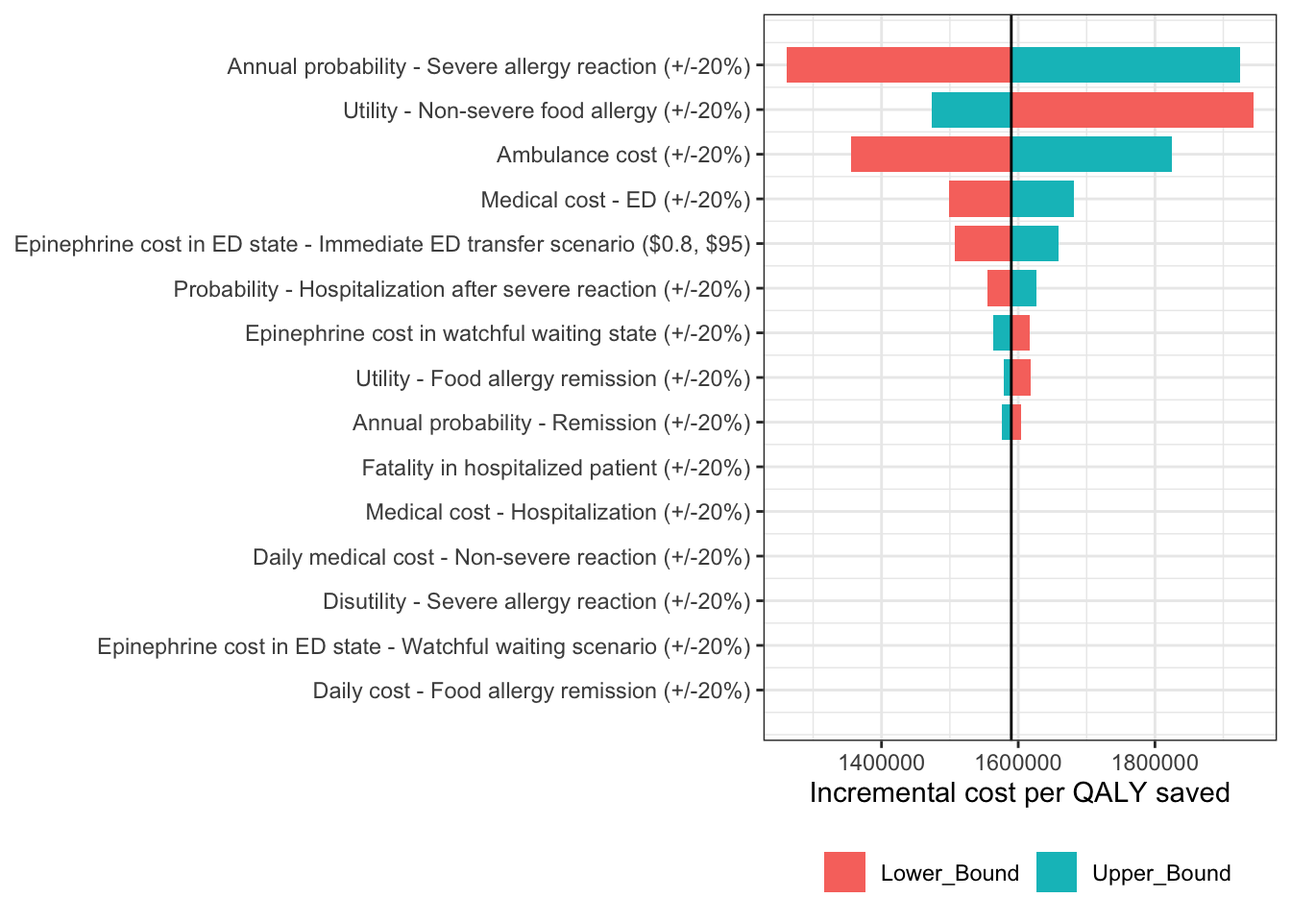
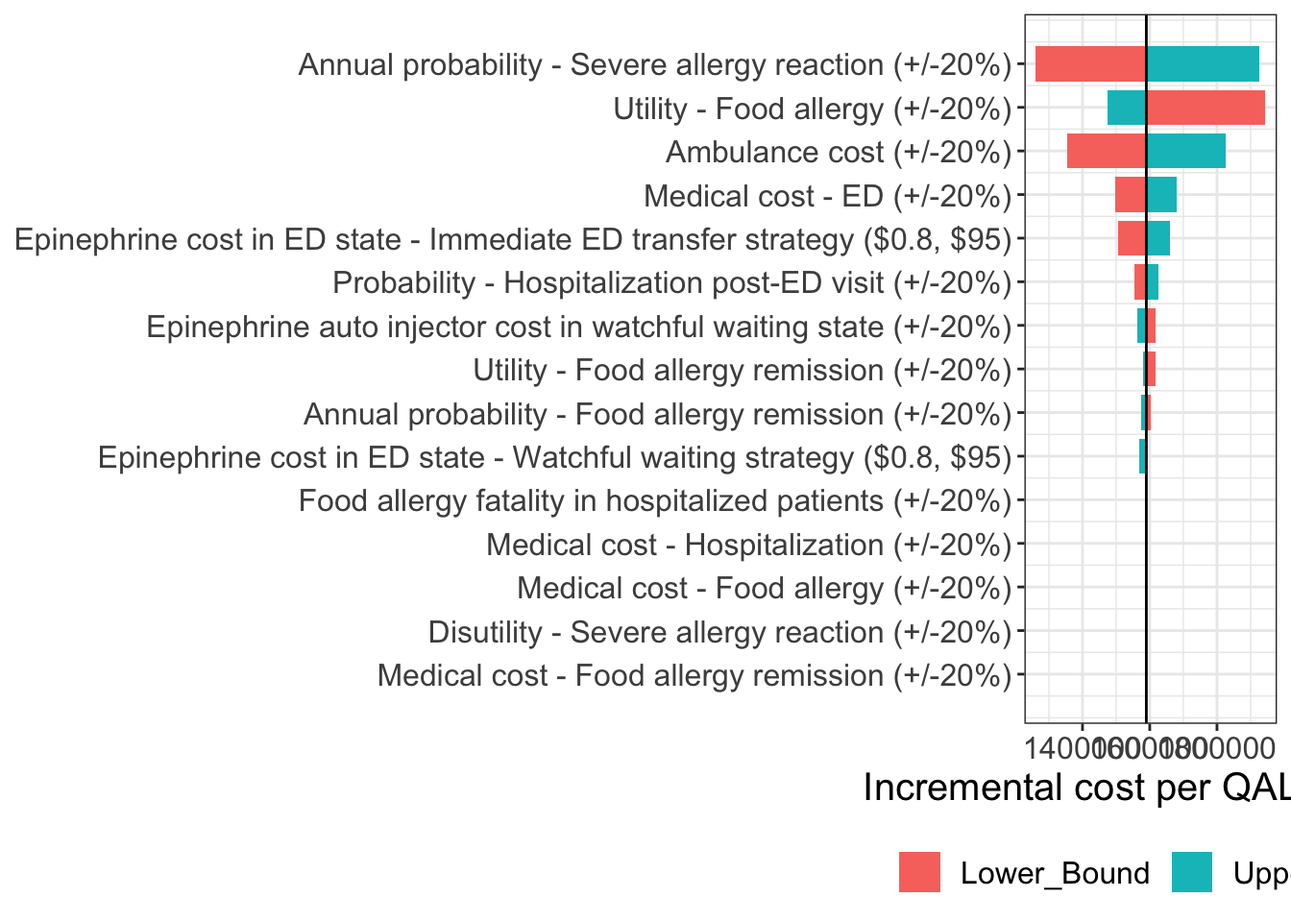
update formate

Changed region(s): [[0.0, 0.0, 1.0, 0.875], [0.625, 0.9062, 1.0, 0.9688]]

diff --git a/Allergy_EAI.html b/Allergy_EAI.html
@@ -1190,7 +1190,7 @@ ED_transfer   1011.657 0.0006003287 1685172 watch_wait</code></pre>
 <span id="cb32-6"><a href="#cb32-6" aria-hidden="true" tabindex="-1"></a>  p_sh_ED,                <span class="fl">0.001684833</span><span class="sc">*</span><span class="fl">0.8</span>,       <span class="fl">0.001684833</span><span class="sc">*</span><span class="fl">1.2</span>,</span>
 <span id="cb32-7"><a href="#cb32-7" aria-hidden="true" tabindex="-1"></a>  treatment_cost_ED,      <span class="fl">0.8</span>,                   <span class="dv">95</span>,</span>
 <span id="cb32-8"><a href="#cb32-8" aria-hidden="true" tabindex="-1"></a>  treatment_cost_ww,      <span class="dv">95</span><span class="sc">*</span><span class="fl">0.8</span>,                <span class="dv">95</span><span class="sc">*</span><span class="fl">1.2</span>,</span>
-<span id="cb32-9"><a href="#cb32-9" aria-hidden="true" tabindex="-1"></a>  treatment_cost_ww_ED,   <span class="fl">0.8</span><span class="sc">*</span><span class="fl">0.8</span>,               <span class="fl">0.8</span><span class="sc">*</span><span class="fl">1.2</span>,</span>
+<span id="cb32-9"><a href="#cb32-9" aria-hidden="true" tabindex="-1"></a>  treatment_cost_ww_ED,   <span class="fl">0.8</span>,                   <span class="dv">95</span>,</span>
 <span id="cb32-10"><a href="#cb32-10" aria-hidden="true" tabindex="-1"></a>  remission_cost_all,     <span class="dv">569</span><span class="sc">/</span><span class="dv">365</span><span class="sc">*</span><span class="fl">0.8</span>,           <span class="dv">569</span><span class="sc">/</span><span class="dv">365</span><span class="sc">*</span><span class="fl">1.2</span>,</span>
 <span id="cb32-11"><a href="#cb32-11" aria-hidden="true" tabindex="-1"></a>  medical_cost_ns,        <span class="dv">1388</span><span class="sc">/</span><span class="dv">365</span> <span class="sc">*</span><span class="fl">0.8</span>,         <span class="dv">1388</span><span class="sc">/</span><span class="dv">365</span><span class="sc">*</span><span class="fl">1.2</span>,</span>
 <span id="cb32-12"><a href="#cb32-12" aria-hidden="true" tabindex="-1"></a>  ambulance_cost_ED_ED,   <span class="dv">848</span><span class="sc">*</span><span class="fl">0.8</span>,               <span class="dv">848</span><span class="sc">*</span><span class="fl">1.2</span>,</span>
@@ -1246,12 +1246,12 @@ ED_transfer   1011.657 0.0006003287 1685172 watch_wait</code></pre>
 <span id="cb35-24"><a href="#cb35-24" aria-hidden="true" tabindex="-1"></a>  df<span class="sc">$</span>UL_Difference <span class="ot">&lt;-</span> <span class="fu">abs</span>(df<span class="sc">$</span>Upper_Bound <span class="sc">-</span> df<span class="sc">$</span>Lower_Bound)</span>
 <span id="cb35-25"><a href="#cb35-25" aria-hidden="true" tabindex="-1"></a>  base.value <span class="ot">&lt;-</span> refer_value</span>
 <span id="cb35-26"><a href="#cb35-26" aria-hidden="true" tabindex="-1"></a>  </span>
-<span id="cb35-27"><a href="#cb35-27" aria-hidden="true" tabindex="-1"></a>  dsa_names<span class="ot">&lt;-</span><span class="fu">c</span>(<span class="st">"Ambulance cost (+/-20%)"</span>, <span class="st">"Medical cost - ED (+/-20%)"</span>,<span class="st">"Medical cost - Hospitalization (+/-20%)"</span>,<span class="st">"Daily medical cost - Non-severe reaction (+/-20%)"</span>, </span>
-<span id="cb35-28"><a href="#cb35-28" aria-hidden="true" tabindex="-1"></a>    <span class="st">"Annual probability - Remission (+/-20%)"</span>,<span class="st">"Annual probability - Severe allergy reaction (+/-20%)"</span>, <span class="st">"Probability - Hospitalization after severe reaction (+/-20%)"</span>,</span>
-<span id="cb35-29"><a href="#cb35-29" aria-hidden="true" tabindex="-1"></a>    <span class="st">"Fatality in hospitalized patient (+/-20%)"</span>,<span class="st">"Daily cost - Food allergy remission (+/-20%)"</span>,</span>
-<span id="cb35-30"><a href="#cb35-30" aria-hidden="true" tabindex="-1"></a>    <span class="st">"Epinephrine cost in ED state - Immediate ED transfer scenario ($0.8, $95)"</span>, <span class="st">"Epinephrine cost in watchful waiting state (+/-20%)"</span>, </span>
-<span id="cb35-31"><a href="#cb35-31" aria-hidden="true" tabindex="-1"></a>    <span class="st">"Epinephrine cost in ED state - Watchful waiting scenario (+/-20%)"</span>, </span>
-<span id="cb35-32"><a href="#cb35-32" aria-hidden="true" tabindex="-1"></a>               <span class="st">"Utility - Non-severe food allergy (+/-20%)"</span>, <span class="st">"Utility - Food allergy remission (+/-20%)"</span>, <span class="st">"Disutility - Severe allergy reaction (+/-20%)"</span></span>
+<span id="cb35-27"><a href="#cb35-27" aria-hidden="true" tabindex="-1"></a>  dsa_names<span class="ot">&lt;-</span><span class="fu">c</span>(<span class="st">"Ambulance cost (+/-20%)"</span>, <span class="st">"Medical cost - ED (+/-20%)"</span>,<span class="st">"Medical cost - Hospitalization (+/-20%)"</span>,<span class="st">"Medical cost - Food allergy (+/-20%)"</span>, </span>
+<span id="cb35-28"><a href="#cb35-28" aria-hidden="true" tabindex="-1"></a>    <span class="st">"Annual probability - Food allergy remission (+/-20%)"</span>,<span class="st">"Annual probability - Severe allergy reaction (+/-20%)"</span>, <span class="st">"Probability - Hospitalization post-ED visit (+/-20%)"</span>,</span>
+<span id="cb35-29"><a href="#cb35-29" aria-hidden="true" tabindex="-1"></a>    <span class="st">"Food allergy fatality in hospitalized patients (+/-20%)"</span>,<span class="st">"Medical cost - Food allergy remission (+/-20%)"</span>,</span>
+<span id="cb35-30"><a href="#cb35-30" aria-hidden="true" tabindex="-1"></a>    <span class="st">"Epinephrine cost in ED state - Immediate ED transfer strategy ($0.8, $95)"</span>, <span class="st">"Epinephrine auto injector cost in watchful waiting state (+/-20%)"</span>, </span>
+<span id="cb35-31"><a href="#cb35-31" aria-hidden="true" tabindex="-1"></a>    <span class="st">"Epinephrine cost in ED state - Watchful waiting strategy ($0.8, $95)"</span>, </span>
+<span id="cb35-32"><a href="#cb35-32" aria-hidden="true" tabindex="-1"></a>               <span class="st">"Utility - Food allergy (+/-20%)"</span>, <span class="st">"Utility - Food allergy remission (+/-20%)"</span>, <span class="st">"Disutility - Severe allergy reaction (+/-20%)"</span></span>
 <span id="cb35-33"><a href="#cb35-33" aria-hidden="true" tabindex="-1"></a>  )</span>
 <span id="cb35-34"><a href="#cb35-34" aria-hidden="true" tabindex="-1"></a>  </span>
 <span id="cb35-35"><a href="#cb35-35" aria-hidden="true" tabindex="-1"></a> </span>
@@ -1283,7 +1283,7 @@ ED_transfer   1011.657 0.0006003287 1685172 watch_wait</code></pre>
 <span id="cb35-61"><a href="#cb35-61" aria-hidden="true" tabindex="-1"></a>              <span class="fu">aes</span>(<span class="at">ymax=</span>ymax, <span class="at">ymin=</span>ymin, <span class="at">xmax=</span>xmax, <span class="at">xmin=</span>xmin, <span class="at">fill=</span>type)) <span class="sc">+</span></span>
 <span id="cb35-62"><a href="#cb35-62" aria-hidden="true" tabindex="-1"></a>    <span class="fu">theme_bw</span>() <span class="sc">+</span></span>
 <span id="cb35-63"><a href="#cb35-63" aria-hidden="true" tabindex="-1"></a>    <span class="fu">theme</span>(<span class="at">axis.title.y=</span><span class="fu">element_blank</span>(), <span class="at">legend.position =</span> <span class="st">'bottom'</span>,</span>
-<span id="cb35-64"><a href="#cb35-64" aria-hidden="true" tabindex="-1"></a>          <span class="at">legend.title =</span> <span class="fu">element_blank</span>()) <span class="sc">+</span> </span>
+<span id="cb35-64"><a href="#cb35-64" aria-hidden="true" tabindex="-1"></a>          <span class="at">legend.title =</span> <span class="fu">element_blank</span>(),<span class="at">text=</span><span class="fu">element_text</span>(<span class="at">size=</span><span class="dv">15</span>)) <span class="sc">+</span> </span>
 <span id="cb35-65"><a href="#cb35-65" aria-hidden="true" tabindex="-1"></a>    <span class="fu">geom_hline</span>(<span class="at">yintercept =</span> base.value) <span class="sc">+</span></span>
 <span id="cb35-66"><a href="#cb35-66" aria-hidden="true" tabindex="-1"></a>    <span class="fu">scale_x_continuous</span>(<span class="at">breaks =</span> <span class="fu">c</span>(<span class="dv">1</span><span class="sc">:</span><span class="fu">length</span>(order.parameters)), </span>
 <span id="cb35-67"><a href="#cb35-67" aria-hidden="true" tabindex="-1"></a>                       <span class="at">labels =</span> order.parameters) <span class="sc">+</span></span>
@@ -1305,16 +1305,16 @@ ED_transfer   1011.657 0.0006003287 1685172 watch_wait</code></pre>
  1 ambulance_cost_ED_ED     1355105.    1824604.      469499.  Ambulance cost (…
  2 medical_cost_ED_ED       1498244.    1681465.      183221.  Medical cost - E…
  3 medical_cost_hospital    1588984.    1590725.        1740.  Medical cost - H…
- 4 medical_cost_ns          1589581.    1590128.         547.  Daily medical co…
+ 4 medical_cost_ns          1589581.    1590128.         547.  Medical cost - F…
  5 p_ns_ar                  1603946.    1575682.       28264.  Annual probabili…
  6 p_severe                 1261317.    1924701.      663384.  Annual probabili…
  7 p_sh_ED                  1554283.    1627052.       72768.  Probability - Ho…
- 8 p_sh_faf                 1591176.    1588973.        2203.  Fatality in hosp…
- 9 remission_cost_all       1589843.    1589865.          21.8 Daily cost - Foo…
+ 8 p_sh_faf                 1591176.    1588973.        2203.  Food allergy fat…
+ 9 remission_cost_all       1589843.    1589865.          21.8 Medical cost - F…
 10 treatment_cost_ED        1507290.    1658900.      151610.  Epinephrine cost…
-11 treatment_cost_ww        1616151.    1563558.       52594.  Epinephrine cost…
-12 treatment_cost_ww_ED     1589890.    1589818.          72.1 Epinephrine cost…
-13 utility_fa               1944308.    1473094.      471214.  Utility - Non-se…
+11 treatment_cost_ww        1616151.    1563558.       52594.  Epinephrine auto…
+12 treatment_cost_ww_ED     1589854.    1568630.       21224.  Epinephrine cost…
+13 utility_fa               1944308.    1473094.      471214.  Utility - Food a…
 14 utility_far              1618693.    1579265.       39428.  Utility - Food a…
 15 utility_sr               1590044.    1589665.         380.  Disutility - Sev…
 
@@ -1326,99 +1326,67 @@ ED_transfer   1011.657 0.0006003287 1685172 watch_wait</code></pre>
 </div>
 <section id="psa-analysis" class="level2">
 <h2 class="anchored" data-anchor-id="psa-analysis">PSA analysis</h2>
-<pre class="{psa_base<-define_psa(}"><code>  p_severe ~ beta(66.3345,696.1314),
-  p_ns_ar_original ~ beta(47.4951,771.3863),
-  p_biphas ~ beta(183.5019,3805.6703),
-  p_EAI ~ beta(8.4940, 0.8813),
-  p_faf ~ beta(99.9999,144927335.2320),
-  p_sh_faf ~ beta(45.8194, 10136.2621),
-  p_EAI_ED ~ beta(7.6118, 6.4841),
-  medical_cost_ns_original ~ gamma(1393,139.3),
-  medical_cost_original~ gamma(304, 30.4),
-  ambulance_cost_ED_ED ~ gamma(848,84.8),
-  waiting_time_ED ~ gamma(3.6,6.8664),
-  medical_h ~ gamma(3670,367),
-  length_stay ~ lognormal(mean = 2.1,sd= 2.7,meanlog = 0.742,sdlog = 0.993),
-  out_of_pocket_original~ gamma(89, 8.9),
-  no_visit ~gamma(0.3,0.9),
-  indirect_cost_allergy_original ~gamma(4173, 417.3),
-  out_of_pocket_allergy_original ~ gamma(2440, 244),
-  utility_far_original ~ beta(8.7708,0.6602),
-  utility_fa_original ~ beta(7.0800, 0.6157),
-  utility_sa ~ beta(1.6689, 0.1651)
-)
+<p>```{r} psa_base&lt;-define_psa( p_severe ~ beta(66.3345,696.1314), p_ns_ar_original ~ beta(47.4951,771.3863), p_biphas ~ beta(183.5019,3805.6703), p_EAI ~ beta(8.4940, 0.8813), p_faf ~ beta(99.9999,144927335.2320), p_sh_faf ~ beta(45.8194, 10136.2621), p_EAI_ED ~ beta(7.6118, 6.4841), medical_cost_ns_original ~ gamma(1393,139.3), medical_cost_original~ gamma(304, 30.4), ambulance_cost_ED_ED ~ gamma(848,84.8), waiting_time_ED ~ gamma(3.6,6.8664), medical_h ~ gamma(3670,367), length_stay ~ lognormal(mean = 2.1,sd= 2.7,meanlog = 0.742,sdlog = 0.993), out_of_pocket_original~ gamma(89, 8.9), no_visit ~gamma(0.3,0.9), indirect_cost_allergy_original ~gamma(4173, 417.3), out_of_pocket_allergy_original ~ gamma(2440, 244), utility_far_original ~ beta(8.7708,0.6602), utility_fa_original ~ beta(7.0800, 0.6157), utility_sa ~ beta(1.6689, 0.1651) )</p>
+<p>psa_result_base&lt;-run_psa(allergy_mod_10,psa_base, N= 1000)</p>
+<p>psa_result_societal&lt;-run_psa(allergy_mod_10_societal,psa_base, N =1000)</p>
+<p>psa_result_100&lt;-run_psa(allergy_mod_100 ,psa_base, N= 1000)</p>
+<p>psa_result_500&lt;-run_psa(allergy_mod_500 ,psa_base, N= 1000)</p>
+<p>psa_result_1000&lt;-run_psa(allergy_mod_1000 ,psa_base, N= 1000)</p>
+<p>psa_result_dr_0&lt;-run_psa(allergy_mod_dr_0 ,psa_base, N= 1000)</p>
+<p>psa_result_dr_3&lt;-run_psa(allergy_mod_dr_3 ,psa_base, N= 1000)</p>
+<pre><code>
+## PSA graph-base model 
 
 
+::: {.cell}
 
+```{.r .cell-code}
+load("psa_result_base")
 
-psa_result_base&lt;-run_psa(allergy_mod_10,psa_base, N= 1000)
-
-psa_result_societal&lt;-run_psa(allergy_mod_10_societal,psa_base, N =1000)
-
-psa_result_100&lt;-run_psa(allergy_mod_100 ,psa_base, N= 1000)
-
-psa_result_500&lt;-run_psa(allergy_mod_500 ,psa_base, N= 1000)
-
-psa_result_1000&lt;-run_psa(allergy_mod_1000 ,psa_base, N= 1000)
-
-psa_result_dr_0&lt;-run_psa(allergy_mod_dr_0 ,psa_base, N= 1000)
-
-psa_result_dr_3&lt;-run_psa(allergy_mod_dr_3 ,psa_base, N= 1000)
-
-
-
-
-</code></pre>
-</section>
-<section id="psa-graph-base-model" class="level2">
-<h2 class="anchored" data-anchor-id="psa-graph-base-model">PSA graph-base model</h2>
-<div class="cell">
-<div class="sourceCode cell-code" id="cb38"><pre class="sourceCode r code-with-copy"><code class="sourceCode r"><span id="cb38-1"><a href="#cb38-1" aria-hidden="true" tabindex="-1"></a><span class="fu">load</span>(<span class="st">"psa_result_base"</span>)</span>
-<span id="cb38-2"><a href="#cb38-2" aria-hidden="true" tabindex="-1"></a></span>
-<span id="cb38-3"><a href="#cb38-3" aria-hidden="true" tabindex="-1"></a>plot_ceac<span class="ot">&lt;-</span><span class="fu">plot</span>(psa_result_base , <span class="at">type =</span> <span class="st">"ac"</span>, <span class="at">max_wtp =</span> <span class="dv">150000</span>, <span class="at">n=</span><span class="dv">1000</span>) <span class="sc">+</span> <span class="fu">xlim</span> (<span class="sc">-</span><span class="dv">1</span>, <span class="dv">150001</span>)<span class="sc">+</span></span>
-<span id="cb38-4"><a href="#cb38-4" aria-hidden="true" tabindex="-1"></a>  <span class="fu">labs</span>(<span class="at">y=</span><span class="st">"Proportion"</span>, <span class="at">x=</span><span class="st">"Willingness-to-pay"</span>)<span class="sc">+</span></span>
-<span id="cb38-5"><a href="#cb38-5" aria-hidden="true" tabindex="-1"></a>  <span class="fu">theme_bw</span>() <span class="sc">+</span> <span class="fu">theme</span>(<span class="at">panel.border =</span> <span class="fu">element_blank</span>(),</span>
-<span id="cb38-6"><a href="#cb38-6" aria-hidden="true" tabindex="-1"></a>                     <span class="co"># panel.grid.major = element_blank(),</span></span>
-<span id="cb38-7"><a href="#cb38-7" aria-hidden="true" tabindex="-1"></a>                     <span class="co"># panel.grid.minor = element_blank(), </span></span>
-<span id="cb38-8"><a href="#cb38-8" aria-hidden="true" tabindex="-1"></a>                     <span class="at">axis.line =</span> <span class="fu">element_line</span>(<span class="at">colour =</span> <span class="st">"black"</span>) </span>
-<span id="cb38-9"><a href="#cb38-9" aria-hidden="true" tabindex="-1"></a>  )</span></code><button title="Copy to Clipboard" class="code-copy-button"><i class="bi"></i></button></pre></div>
+plot_ceac&lt;-plot(psa_result_base , type = "ac", max_wtp = 150000, n=1000) + xlim (-1, 150001)+
+  labs(y="Proportion", x="Willingness-to-pay")+
+  theme_bw() + theme(panel.border = element_blank(),
+                     # panel.grid.major = element_blank(),
+                     # panel.grid.minor = element_blank(), 
+                     axis.line = element_line(colour = "black") 
+  )</code></pre>
 <div class="cell-output cell-output-stderr">
 <pre><code>Scale for x is already present.
 Adding another scale for x, which will replace the existing scale.</code></pre>
 </div>
-<div class="sourceCode cell-code" id="cb40"><pre class="sourceCode r code-with-copy"><code class="sourceCode r"><span id="cb40-1"><a href="#cb40-1" aria-hidden="true" tabindex="-1"></a><span class="fu">print</span>(plot_ceac)</span></code><button title="Copy to Clipboard" class="code-copy-button"><i class="bi"></i></button></pre></div>
+<div class="sourceCode cell-code" id="cb39"><pre class="sourceCode r code-with-copy"><code class="sourceCode r"><span id="cb39-1"><a href="#cb39-1" aria-hidden="true" tabindex="-1"></a><span class="fu">print</span>(plot_ceac)</span></code><button title="Copy to Clipboard" class="code-copy-button"><i class="bi"></i></button></pre></div>
 <div class="cell-output-display">
 <p><img src="Allergy_EAI_files/figure-html/unnamed-chunk-12-1.png" class="img-fluid" width="672"></p>
 </div>
-<div class="sourceCode cell-code" id="cb41"><pre class="sourceCode r code-with-copy"><code class="sourceCode r"><span id="cb41-1"><a href="#cb41-1" aria-hidden="true" tabindex="-1"></a>CEA_plot <span class="ot">&lt;-</span> <span class="cf">function</span>(data, </span>
-<span id="cb41-2"><a href="#cb41-2" aria-hidden="true" tabindex="-1"></a>                     x, y, </span>
-<span id="cb41-3"><a href="#cb41-3" aria-hidden="true" tabindex="-1"></a>                     <span class="at">title=</span><span class="cn">NULL</span>,</span>
-<span id="cb41-4"><a href="#cb41-4" aria-hidden="true" tabindex="-1"></a>                     <span class="at">xlab=</span><span class="cn">NULL</span>, <span class="at">ylab=</span><span class="cn">NULL</span>){</span>
-<span id="cb41-5"><a href="#cb41-5" aria-hidden="true" tabindex="-1"></a>  p <span class="ot">&lt;-</span> <span class="fu">ggplot</span>(<span class="at">data =</span> data,</span>
-<span id="cb41-6"><a href="#cb41-6" aria-hidden="true" tabindex="-1"></a>              <span class="fu">aes</span>(x,y))<span class="sc">+</span></span>
-<span id="cb41-7"><a href="#cb41-7" aria-hidden="true" tabindex="-1"></a>    <span class="fu">geom_point</span>()<span class="sc">+</span></span>
-<span id="cb41-8"><a href="#cb41-8" aria-hidden="true" tabindex="-1"></a>    <span class="fu">stat_ellipse</span>()<span class="sc">+</span></span>
-<span id="cb41-9"><a href="#cb41-9" aria-hidden="true" tabindex="-1"></a>    <span class="fu">labs</span>(<span class="at">x=</span>xlab, <span class="at">y=</span>ylab, <span class="at">title=</span>title)<span class="sc">+</span></span>
-<span id="cb41-10"><a href="#cb41-10" aria-hidden="true" tabindex="-1"></a>    <span class="fu">geom_hline</span>(<span class="at">yintercept =</span> <span class="dv">0</span>)<span class="sc">+</span></span>
-<span id="cb41-11"><a href="#cb41-11" aria-hidden="true" tabindex="-1"></a>    <span class="fu">geom_vline</span>(<span class="at">xintercept =</span> <span class="dv">0</span>)<span class="sc">+</span></span>
-<span id="cb41-12"><a href="#cb41-12" aria-hidden="true" tabindex="-1"></a>    <span class="fu">theme_bw</span>() <span class="sc">+</span> <span class="fu">theme</span>(<span class="at">panel.border =</span> <span class="fu">element_blank</span>(),</span>
-<span id="cb41-13"><a href="#cb41-13" aria-hidden="true" tabindex="-1"></a>                       <span class="co"># panel.grid.major = element_blank(),</span></span>
-<span id="cb41-14"><a href="#cb41-14" aria-hidden="true" tabindex="-1"></a>                       <span class="co"># panel.grid.minor = element_blank(), </span></span>
-<span id="cb41-15"><a href="#cb41-15" aria-hidden="true" tabindex="-1"></a>                       <span class="at">axis.line =</span> <span class="fu">element_line</span>(<span class="at">colour =</span> <span class="st">"black"</span>) </span>
-<span id="cb41-16"><a href="#cb41-16" aria-hidden="true" tabindex="-1"></a>    )</span>
-<span id="cb41-17"><a href="#cb41-17" aria-hidden="true" tabindex="-1"></a>  </span>
-<span id="cb41-18"><a href="#cb41-18" aria-hidden="true" tabindex="-1"></a>  <span class="fu">return</span>(p)</span>
-<span id="cb41-19"><a href="#cb41-19" aria-hidden="true" tabindex="-1"></a>}</span>
-<span id="cb41-20"><a href="#cb41-20" aria-hidden="true" tabindex="-1"></a></span>
-<span id="cb41-21"><a href="#cb41-21" aria-hidden="true" tabindex="-1"></a>cea_analysis<span class="ot">&lt;-</span>psa_result_base<span class="sc">$</span>psa <span class="sc">%&gt;%</span> </span>
-<span id="cb41-22"><a href="#cb41-22" aria-hidden="true" tabindex="-1"></a>  <span class="fu">arrange</span>(.strategy_names, .index) <span class="sc">%&gt;%</span> </span>
-<span id="cb41-23"><a href="#cb41-23" aria-hidden="true" tabindex="-1"></a>  <span class="fu">group_by</span>(.index) <span class="sc">%&gt;%</span></span>
-<span id="cb41-24"><a href="#cb41-24" aria-hidden="true" tabindex="-1"></a><span class="fu">mutate</span>(<span class="at">cost_diff =</span> (.cost<span class="sc">-</span><span class="fu">lag</span>(.cost))<span class="sc">/</span><span class="dv">10000</span>, <span class="at">utility_diff =</span> (.effect<span class="sc">-</span><span class="fu">lag</span>(.effect))<span class="sc">/</span><span class="dv">10000</span>)</span>
-<span id="cb41-25"><a href="#cb41-25" aria-hidden="true" tabindex="-1"></a></span>
-<span id="cb41-26"><a href="#cb41-26" aria-hidden="true" tabindex="-1"></a></span>
-<span id="cb41-27"><a href="#cb41-27" aria-hidden="true" tabindex="-1"></a>plot_cea_base<span class="ot">&lt;-</span><span class="fu">CEA_plot</span>(<span class="at">data =</span> cea_analysis, <span class="at">x=</span>cea_analysis<span class="sc">$</span>utility_diff,<span class="at">y=</span>cea_analysis<span class="sc">$</span>cost_diff,<span class="at">xlab=</span><span class="st">"Incremental QALY"</span>, <span class="at">ylab =</span> <span class="st">"Incremental Cost"</span> )</span>
-<span id="cb41-28"><a href="#cb41-28" aria-hidden="true" tabindex="-1"></a></span>
-<span id="cb41-29"><a href="#cb41-29" aria-hidden="true" tabindex="-1"></a><span class="fu">print</span>(plot_cea_base)</span></code><button title="Copy to Clipboard" class="code-copy-button"><i class="bi"></i></button></pre></div>
+<div class="sourceCode cell-code" id="cb40"><pre class="sourceCode r code-with-copy"><code class="sourceCode r"><span id="cb40-1"><a href="#cb40-1" aria-hidden="true" tabindex="-1"></a>CEA_plot <span class="ot">&lt;-</span> <span class="cf">function</span>(data, </span>
+<span id="cb40-2"><a href="#cb40-2" aria-hidden="true" tabindex="-1"></a>                     x, y, </span>
+<span id="cb40-3"><a href="#cb40-3" aria-hidden="true" tabindex="-1"></a>                     <span class="at">title=</span><span class="cn">NULL</span>,</span>
+<span id="cb40-4"><a href="#cb40-4" aria-hidden="true" tabindex="-1"></a>                     <span class="at">xlab=</span><span class="cn">NULL</span>, <span class="at">ylab=</span><span class="cn">NULL</span>){</span>
+<span id="cb40-5"><a href="#cb40-5" aria-hidden="true" tabindex="-1"></a>  p <span class="ot">&lt;-</span> <span class="fu">ggplot</span>(<span class="at">data =</span> data,</span>
+<span id="cb40-6"><a href="#cb40-6" aria-hidden="true" tabindex="-1"></a>              <span class="fu">aes</span>(x,y))<span class="sc">+</span></span>
+<span id="cb40-7"><a href="#cb40-7" aria-hidden="true" tabindex="-1"></a>    <span class="fu">geom_point</span>()<span class="sc">+</span></span>
+<span id="cb40-8"><a href="#cb40-8" aria-hidden="true" tabindex="-1"></a>    <span class="fu">stat_ellipse</span>()<span class="sc">+</span></span>
+<span id="cb40-9"><a href="#cb40-9" aria-hidden="true" tabindex="-1"></a>    <span class="fu">labs</span>(<span class="at">x=</span>xlab, <span class="at">y=</span>ylab, <span class="at">title=</span>title)<span class="sc">+</span></span>
+<span id="cb40-10"><a href="#cb40-10" aria-hidden="true" tabindex="-1"></a>    <span class="fu">geom_hline</span>(<span class="at">yintercept =</span> <span class="dv">0</span>)<span class="sc">+</span></span>
+<span id="cb40-11"><a href="#cb40-11" aria-hidden="true" tabindex="-1"></a>    <span class="fu">geom_vline</span>(<span class="at">xintercept =</span> <span class="dv">0</span>)<span class="sc">+</span></span>
+<span id="cb40-12"><a href="#cb40-12" aria-hidden="true" tabindex="-1"></a>    <span class="fu">theme_bw</span>() <span class="sc">+</span> <span class="fu">theme</span>(<span class="at">panel.border =</span> <span class="fu">element_blank</span>(),</span>
+<span id="cb40-13"><a href="#cb40-13" aria-hidden="true" tabindex="-1"></a>                       <span class="co"># panel.grid.major = element_blank(),</span></span>
+<span id="cb40-14"><a href="#cb40-14" aria-hidden="true" tabindex="-1"></a>                       <span class="co"># panel.grid.minor = element_blank(), </span></span>
+<span id="cb40-15"><a href="#cb40-15" aria-hidden="true" tabindex="-1"></a>                       <span class="at">axis.line =</span> <span class="fu">element_line</span>(<span class="at">colour =</span> <span class="st">"black"</span>) </span>
+<span id="cb40-16"><a href="#cb40-16" aria-hidden="true" tabindex="-1"></a>    )</span>
+<span id="cb40-17"><a href="#cb40-17" aria-hidden="true" tabindex="-1"></a>  </span>
+<span id="cb40-18"><a href="#cb40-18" aria-hidden="true" tabindex="-1"></a>  <span class="fu">return</span>(p)</span>
+<span id="cb40-19"><a href="#cb40-19" aria-hidden="true" tabindex="-1"></a>}</span>
+<span id="cb40-20"><a href="#cb40-20" aria-hidden="true" tabindex="-1"></a></span>
+<span id="cb40-21"><a href="#cb40-21" aria-hidden="true" tabindex="-1"></a>cea_analysis<span class="ot">&lt;-</span>psa_result_base<span class="sc">$</span>psa <span class="sc">%&gt;%</span> </span>
+<span id="cb40-22"><a href="#cb40-22" aria-hidden="true" tabindex="-1"></a>  <span class="fu">arrange</span>(.strategy_names, .index) <span class="sc">%&gt;%</span> </span>
+<span id="cb40-23"><a href="#cb40-23" aria-hidden="true" tabindex="-1"></a>  <span class="fu">group_by</span>(.index) <span class="sc">%&gt;%</span></span>
+<span id="cb40-24"><a href="#cb40-24" aria-hidden="true" tabindex="-1"></a><span class="fu">mutate</span>(<span class="at">cost_diff =</span> (.cost<span class="sc">-</span><span class="fu">lag</span>(.cost))<span class="sc">/</span><span class="dv">10000</span>, <span class="at">utility_diff =</span> (.effect<span class="sc">-</span><span class="fu">lag</span>(.effect))<span class="sc">/</span><span class="dv">10000</span>)</span>
+<span id="cb40-25"><a href="#cb40-25" aria-hidden="true" tabindex="-1"></a></span>
+<span id="cb40-26"><a href="#cb40-26" aria-hidden="true" tabindex="-1"></a></span>
+<span id="cb40-27"><a href="#cb40-27" aria-hidden="true" tabindex="-1"></a>plot_cea_base<span class="ot">&lt;-</span><span class="fu">CEA_plot</span>(<span class="at">data =</span> cea_analysis, <span class="at">x=</span>cea_analysis<span class="sc">$</span>utility_diff,<span class="at">y=</span>cea_analysis<span class="sc">$</span>cost_diff,<span class="at">xlab=</span><span class="st">"Incremental QALY"</span>, <span class="at">ylab =</span> <span class="st">"Incremental Cost"</span> )</span>
+<span id="cb40-28"><a href="#cb40-28" aria-hidden="true" tabindex="-1"></a></span>
+<span id="cb40-29"><a href="#cb40-29" aria-hidden="true" tabindex="-1"></a><span class="fu">print</span>(plot_cea_base)</span></code><button title="Copy to Clipboard" class="code-copy-button"><i class="bi"></i></button></pre></div>
 <div class="cell-output cell-output-stderr">
 <pre><code>Warning: Removed 1000 rows containing non-finite values (`stat_ellipse()`).</code></pre>
 </div>
@@ -1428,7 +1396,7 @@ Adding another scale for x, which will replace the existing scale.</code></pre>
 <div class="cell-output-display">
 <p><img src="Allergy_EAI_files/figure-html/unnamed-chunk-12-2.png" class="img-fluid" width="672"></p>
 </div>
-</div>
+<p>:::</p>
 </section>
 <section id="scenario-analysis" class="level2">
 <h2 class="anchored" data-anchor-id="scenario-analysis">Scenario Analysis</h2>
@@ -1436,53 +1404,53 @@ Adding another scale for x, which will replace the existing scale.</code></pre>
 <section id="section" class="level2">
 <h2 class="anchored" data-anchor-id="section"></h2>
 <div class="cell">
-<div class="sourceCode cell-code" id="cb44"><pre class="sourceCode r code-with-copy"><code class="sourceCode r"><span id="cb44-1"><a href="#cb44-1" aria-hidden="true" tabindex="-1"></a>Psa_summary<span class="ot">&lt;-</span><span class="cf">function</span>(dr,scenario_name) {</span>
-<span id="cb44-2"><a href="#cb44-2" aria-hidden="true" tabindex="-1"></a>  a <span class="ot">&lt;-</span>dr<span class="sc">$</span>psa</span>
-<span id="cb44-3"><a href="#cb44-3" aria-hidden="true" tabindex="-1"></a>  </span>
-<span id="cb44-4"><a href="#cb44-4" aria-hidden="true" tabindex="-1"></a>  b <span class="ot">&lt;-</span>a<span class="sc">%&gt;%</span> <span class="fu">group_by</span>(.index) <span class="sc">%&gt;%</span> </span>
-<span id="cb44-5"><a href="#cb44-5" aria-hidden="true" tabindex="-1"></a>    <span class="fu">mutate</span>(<span class="at">cost_diff =</span> .cost<span class="sc">-</span> <span class="fu">lag</span>(.cost)) <span class="sc">%&gt;%</span></span>
-<span id="cb44-6"><a href="#cb44-6" aria-hidden="true" tabindex="-1"></a>    <span class="fu">mutate</span>(<span class="at">Qaly_diff =</span> .effect<span class="sc">-</span> <span class="fu">lag</span>(.effect))<span class="sc">%&gt;%</span></span>
-<span id="cb44-7"><a href="#cb44-7" aria-hidden="true" tabindex="-1"></a>    <span class="fu">mutate</span>(<span class="at">INMB =</span>Qaly_diff<span class="sc">/</span><span class="dv">10000</span> <span class="sc">*</span><span class="dv">100000</span><span class="sc">-</span>cost_diff<span class="sc">/</span><span class="dv">10000</span> )</span>
-<span id="cb44-8"><a href="#cb44-8" aria-hidden="true" tabindex="-1"></a>  </span>
-<span id="cb44-9"><a href="#cb44-9" aria-hidden="true" tabindex="-1"></a>  mean_cost<span class="ot">&lt;-</span><span class="fu">round</span>(<span class="fu">mean</span>(b<span class="sc">$</span>cost_diff,<span class="at">na.rm =</span> <span class="cn">TRUE</span>)<span class="sc">/</span><span class="dv">10000</span>,<span class="dv">4</span>)</span>
-<span id="cb44-10"><a href="#cb44-10" aria-hidden="true" tabindex="-1"></a>  </span>
-<span id="cb44-11"><a href="#cb44-11" aria-hidden="true" tabindex="-1"></a>  mean_utility<span class="ot">&lt;-</span><span class="fu">signif</span>(<span class="fu">mean</span>(b<span class="sc">$</span>Qaly_diff,<span class="at">na.rm =</span> <span class="cn">TRUE</span>)<span class="sc">/</span><span class="dv">10000</span>,<span class="dv">4</span>)</span>
-<span id="cb44-12"><a href="#cb44-12" aria-hidden="true" tabindex="-1"></a>  </span>
-<span id="cb44-13"><a href="#cb44-13" aria-hidden="true" tabindex="-1"></a>  INMB_result<span class="ot">&lt;-</span><span class="fu">round</span>(<span class="fu">mean</span>(b<span class="sc">$</span>INMB,<span class="at">na.rm =</span> <span class="cn">TRUE</span>),<span class="dv">4</span>)</span>
-<span id="cb44-14"><a href="#cb44-14" aria-hidden="true" tabindex="-1"></a>  </span>
-<span id="cb44-15"><a href="#cb44-15" aria-hidden="true" tabindex="-1"></a>  cost_ED<span class="ot">&lt;-</span><span class="fu">round</span>(<span class="fu">mean</span>(a<span class="sc">$</span>.cost[a<span class="sc">$</span>.strategy_names<span class="sc">==</span><span class="st">"ED_transfer"</span>])<span class="sc">/</span><span class="dv">10000</span>,<span class="dv">4</span>)</span>
-<span id="cb44-16"><a href="#cb44-16" aria-hidden="true" tabindex="-1"></a>  </span>
-<span id="cb44-17"><a href="#cb44-17" aria-hidden="true" tabindex="-1"></a>  cost_watch<span class="ot">&lt;-</span><span class="fu">round</span>(<span class="fu">mean</span>(a<span class="sc">$</span>.cost[a<span class="sc">$</span>.strategy_names<span class="sc">==</span><span class="st">"watch_wait"</span>])<span class="sc">/</span><span class="dv">10000</span>,<span class="dv">4</span>)</span>
-<span id="cb44-18"><a href="#cb44-18" aria-hidden="true" tabindex="-1"></a>  </span>
-<span id="cb44-19"><a href="#cb44-19" aria-hidden="true" tabindex="-1"></a>  utility_ED<span class="ot">&lt;-</span><span class="fu">round</span>(<span class="fu">mean</span>(a<span class="sc">$</span>.effect[a<span class="sc">$</span>.strategy_names<span class="sc">==</span><span class="st">"ED_transfer"</span>])<span class="sc">/</span><span class="dv">10000</span>,<span class="dv">4</span>)</span>
-<span id="cb44-20"><a href="#cb44-20" aria-hidden="true" tabindex="-1"></a>  </span>
-<span id="cb44-21"><a href="#cb44-21" aria-hidden="true" tabindex="-1"></a> utility_watch<span class="ot">&lt;-</span><span class="fu">round</span>(<span class="fu">mean</span>(a<span class="sc">$</span>.effect[a<span class="sc">$</span>.strategy_names<span class="sc">==</span><span class="st">"watch_wait"</span>])<span class="sc">/</span><span class="dv">10000</span>,<span class="dv">4</span>)</span>
-<span id="cb44-22"><a href="#cb44-22" aria-hidden="true" tabindex="-1"></a>  </span>
-<span id="cb44-23"><a href="#cb44-23" aria-hidden="true" tabindex="-1"></a>  c<span class="ot">&lt;-</span><span class="fu">data.frame</span>(</span>
-<span id="cb44-24"><a href="#cb44-24" aria-hidden="true" tabindex="-1"></a>    <span class="at">Scenrio =</span> scenario_name,</span>
-<span id="cb44-25"><a href="#cb44-25" aria-hidden="true" tabindex="-1"></a>    <span class="at">watch_cost =</span> cost_watch,</span>
-<span id="cb44-26"><a href="#cb44-26" aria-hidden="true" tabindex="-1"></a>    <span class="at">ED_cost =</span> cost_ED,</span>
-<span id="cb44-27"><a href="#cb44-27" aria-hidden="true" tabindex="-1"></a>    <span class="at">QALY_ED =</span> utility_ED,</span>
-<span id="cb44-28"><a href="#cb44-28" aria-hidden="true" tabindex="-1"></a>    <span class="at">QAlY_watch =</span> utility_watch,</span>
-<span id="cb44-29"><a href="#cb44-29" aria-hidden="true" tabindex="-1"></a>    <span class="at">Increment_cost =</span> mean_cost,</span>
-<span id="cb44-30"><a href="#cb44-30" aria-hidden="true" tabindex="-1"></a>    <span class="at">Increment_utility=</span> mean_utility,</span>
-<span id="cb44-31"><a href="#cb44-31" aria-hidden="true" tabindex="-1"></a>    <span class="at">ICER=</span> mean_cost<span class="sc">/</span>mean_utility,</span>
-<span id="cb44-32"><a href="#cb44-32" aria-hidden="true" tabindex="-1"></a>    <span class="at">INMB =</span> INMB_result)</span>
-<span id="cb44-33"><a href="#cb44-33" aria-hidden="true" tabindex="-1"></a>    </span>
-<span id="cb44-34"><a href="#cb44-34" aria-hidden="true" tabindex="-1"></a>    <span class="fu">print</span>(c)</span>
-<span id="cb44-35"><a href="#cb44-35" aria-hidden="true" tabindex="-1"></a></span>
-<span id="cb44-36"><a href="#cb44-36" aria-hidden="true" tabindex="-1"></a>}</span>
-<span id="cb44-37"><a href="#cb44-37" aria-hidden="true" tabindex="-1"></a></span>
-<span id="cb44-38"><a href="#cb44-38" aria-hidden="true" tabindex="-1"></a><span class="fu">load</span>(<span class="st">"psa_result_100"</span>)</span>
-<span id="cb44-39"><a href="#cb44-39" aria-hidden="true" tabindex="-1"></a><span class="fu">load</span>(<span class="st">"psa_result_500"</span>)</span>
-<span id="cb44-40"><a href="#cb44-40" aria-hidden="true" tabindex="-1"></a><span class="fu">load</span>(<span class="st">"psa_result_1000"</span>)</span>
-<span id="cb44-41"><a href="#cb44-41" aria-hidden="true" tabindex="-1"></a><span class="fu">load</span>(<span class="st">"psa_result_dr_0"</span>)</span>
-<span id="cb44-42"><a href="#cb44-42" aria-hidden="true" tabindex="-1"></a><span class="fu">load</span>(<span class="st">"psa_result_dr_3"</span>)</span>
-<span id="cb44-43"><a href="#cb44-43" aria-hidden="true" tabindex="-1"></a><span class="fu">load</span>(<span class="st">"psa_result_societal"</span>)</span>
-<span id="cb44-44"><a href="#cb44-44" aria-hidden="true" tabindex="-1"></a></span>
-<span id="cb44-45"><a href="#cb44-45" aria-hidden="true" tabindex="-1"></a>PSA_result_summary<span class="ot">&lt;-</span><span class="fu">bind_rows</span>(<span class="fu">Psa_summary</span>(psa_result_base,<span class="st">"psa_base"</span>), <span class="fu">Psa_summary</span>(psa_result_100,<span class="st">"psa_100"</span>), <span class="fu">Psa_summary</span>(psa_result_500, <span class="st">"psa_500"</span>),</span>
-<span id="cb44-46"><a href="#cb44-46" aria-hidden="true" tabindex="-1"></a>    <span class="fu">Psa_summary</span>(psa_result_1000,<span class="st">"psa_1000"</span>), <span class="fu">Psa_summary</span>(psa_result_dr_0, <span class="st">"discount 0"</span>), <span class="fu">Psa_summary</span>(psa_result_dr_3, <span class="st">"discount 3%"</span>),</span>
-<span id="cb44-47"><a href="#cb44-47" aria-hidden="true" tabindex="-1"></a>    <span class="fu">Psa_summary</span>(psa_result_societal,<span class="st">"psa_societal"</span>))</span></code><button title="Copy to Clipboard" class="code-copy-button"><i class="bi"></i></button></pre></div>
+<div class="sourceCode cell-code" id="cb43"><pre class="sourceCode r code-with-copy"><code class="sourceCode r"><span id="cb43-1"><a href="#cb43-1" aria-hidden="true" tabindex="-1"></a>Psa_summary<span class="ot">&lt;-</span><span class="cf">function</span>(dr,scenario_name) {</span>
+<span id="cb43-2"><a href="#cb43-2" aria-hidden="true" tabindex="-1"></a>  a <span class="ot">&lt;-</span>dr<span class="sc">$</span>psa</span>
+<span id="cb43-3"><a href="#cb43-3" aria-hidden="true" tabindex="-1"></a>  </span>
+<span id="cb43-4"><a href="#cb43-4" aria-hidden="true" tabindex="-1"></a>  b <span class="ot">&lt;-</span>a<span class="sc">%&gt;%</span> <span class="fu">group_by</span>(.index) <span class="sc">%&gt;%</span> </span>
+<span id="cb43-5"><a href="#cb43-5" aria-hidden="true" tabindex="-1"></a>    <span class="fu">mutate</span>(<span class="at">cost_diff =</span> .cost<span class="sc">-</span> <span class="fu">lag</span>(.cost)) <span class="sc">%&gt;%</span></span>
+<span id="cb43-6"><a href="#cb43-6" aria-hidden="true" tabindex="-1"></a>    <span class="fu">mutate</span>(<span class="at">Qaly_diff =</span> .effect<span class="sc">-</span> <span class="fu">lag</span>(.effect))<span class="sc">%&gt;%</span></span>
+<span id="cb43-7"><a href="#cb43-7" aria-hidden="true" tabindex="-1"></a>    <span class="fu">mutate</span>(<span class="at">INMB =</span>Qaly_diff<span class="sc">/</span><span class="dv">10000</span> <span class="sc">*</span><span class="dv">100000</span><span class="sc">-</span>cost_diff<span class="sc">/</span><span class="dv">10000</span> )</span>
+<span id="cb43-8"><a href="#cb43-8" aria-hidden="true" tabindex="-1"></a>  </span>
+<span id="cb43-9"><a href="#cb43-9" aria-hidden="true" tabindex="-1"></a>  mean_cost<span class="ot">&lt;-</span><span class="fu">round</span>(<span class="fu">mean</span>(b<span class="sc">$</span>cost_diff,<span class="at">na.rm =</span> <span class="cn">TRUE</span>)<span class="sc">/</span><span class="dv">10000</span>,<span class="dv">4</span>)</span>
+<span id="cb43-10"><a href="#cb43-10" aria-hidden="true" tabindex="-1"></a>  </span>
+<span id="cb43-11"><a href="#cb43-11" aria-hidden="true" tabindex="-1"></a>  mean_utility<span class="ot">&lt;-</span><span class="fu">signif</span>(<span class="fu">mean</span>(b<span class="sc">$</span>Qaly_diff,<span class="at">na.rm =</span> <span class="cn">TRUE</span>)<span class="sc">/</span><span class="dv">10000</span>,<span class="dv">4</span>)</span>
+<span id="cb43-12"><a href="#cb43-12" aria-hidden="true" tabindex="-1"></a>  </span>
+<span id="cb43-13"><a href="#cb43-13" aria-hidden="true" tabindex="-1"></a>  INMB_result<span class="ot">&lt;-</span><span class="fu">round</span>(<span class="fu">mean</span>(b<span class="sc">$</span>INMB,<span class="at">na.rm =</span> <span class="cn">TRUE</span>),<span class="dv">4</span>)</span>
+<span id="cb43-14"><a href="#cb43-14" aria-hidden="true" tabindex="-1"></a>  </span>
+<span id="cb43-15"><a href="#cb43-15" aria-hidden="true" tabindex="-1"></a>  cost_ED<span class="ot">&lt;-</span><span class="fu">round</span>(<span class="fu">mean</span>(a<span class="sc">$</span>.cost[a<span class="sc">$</span>.strategy_names<span class="sc">==</span><span class="st">"ED_transfer"</span>])<span class="sc">/</span><span class="dv">10000</span>,<span class="dv">4</span>)</span>
+<span id="cb43-16"><a href="#cb43-16" aria-hidden="true" tabindex="-1"></a>  </span>
+<span id="cb43-17"><a href="#cb43-17" aria-hidden="true" tabindex="-1"></a>  cost_watch<span class="ot">&lt;-</span><span class="fu">round</span>(<span class="fu">mean</span>(a<span class="sc">$</span>.cost[a<span class="sc">$</span>.strategy_names<span class="sc">==</span><span class="st">"watch_wait"</span>])<span class="sc">/</span><span class="dv">10000</span>,<span class="dv">4</span>)</span>
+<span id="cb43-18"><a href="#cb43-18" aria-hidden="true" tabindex="-1"></a>  </span>
+<span id="cb43-19"><a href="#cb43-19" aria-hidden="true" tabindex="-1"></a>  utility_ED<span class="ot">&lt;-</span><span class="fu">round</span>(<span class="fu">mean</span>(a<span class="sc">$</span>.effect[a<span class="sc">$</span>.strategy_names<span class="sc">==</span><span class="st">"ED_transfer"</span>])<span class="sc">/</span><span class="dv">10000</span>,<span class="dv">4</span>)</span>
+<span id="cb43-20"><a href="#cb43-20" aria-hidden="true" tabindex="-1"></a>  </span>
+<span id="cb43-21"><a href="#cb43-21" aria-hidden="true" tabindex="-1"></a> utility_watch<span class="ot">&lt;-</span><span class="fu">round</span>(<span class="fu">mean</span>(a<span class="sc">$</span>.effect[a<span class="sc">$</span>.strategy_names<span class="sc">==</span><span class="st">"watch_wait"</span>])<span class="sc">/</span><span class="dv">10000</span>,<span class="dv">4</span>)</span>
+<span id="cb43-22"><a href="#cb43-22" aria-hidden="true" tabindex="-1"></a>  </span>
+<span id="cb43-23"><a href="#cb43-23" aria-hidden="true" tabindex="-1"></a>  c<span class="ot">&lt;-</span><span class="fu">data.frame</span>(</span>
+<span id="cb43-24"><a href="#cb43-24" aria-hidden="true" tabindex="-1"></a>    <span class="at">Scenrio =</span> scenario_name,</span>
+<span id="cb43-25"><a href="#cb43-25" aria-hidden="true" tabindex="-1"></a>    <span class="at">watch_cost =</span> cost_watch,</span>
+<span id="cb43-26"><a href="#cb43-26" aria-hidden="true" tabindex="-1"></a>    <span class="at">ED_cost =</span> cost_ED,</span>
+<span id="cb43-27"><a href="#cb43-27" aria-hidden="true" tabindex="-1"></a>    <span class="at">QALY_ED =</span> utility_ED,</span>
+<span id="cb43-28"><a href="#cb43-28" aria-hidden="true" tabindex="-1"></a>    <span class="at">QAlY_watch =</span> utility_watch,</span>
+<span id="cb43-29"><a href="#cb43-29" aria-hidden="true" tabindex="-1"></a>    <span class="at">Increment_cost =</span> mean_cost,</span>
+<span id="cb43-30"><a href="#cb43-30" aria-hidden="true" tabindex="-1"></a>    <span class="at">Increment_utility=</span> mean_utility,</span>
+<span id="cb43-31"><a href="#cb43-31" aria-hidden="true" tabindex="-1"></a>    <span class="at">ICER=</span> mean_cost<span class="sc">/</span>mean_utility,</span>
+<span id="cb43-32"><a href="#cb43-32" aria-hidden="true" tabindex="-1"></a>    <span class="at">INMB =</span> INMB_result)</span>
+<span id="cb43-33"><a href="#cb43-33" aria-hidden="true" tabindex="-1"></a>    </span>
+<span id="cb43-34"><a href="#cb43-34" aria-hidden="true" tabindex="-1"></a>    <span class="fu">print</span>(c)</span>
+<span id="cb43-35"><a href="#cb43-35" aria-hidden="true" tabindex="-1"></a></span>
+<span id="cb43-36"><a href="#cb43-36" aria-hidden="true" tabindex="-1"></a>}</span>
+<span id="cb43-37"><a href="#cb43-37" aria-hidden="true" tabindex="-1"></a></span>
+<span id="cb43-38"><a href="#cb43-38" aria-hidden="true" tabindex="-1"></a><span class="fu">load</span>(<span class="st">"psa_result_100"</span>)</span>
+<span id="cb43-39"><a href="#cb43-39" aria-hidden="true" tabindex="-1"></a><span class="fu">load</span>(<span class="st">"psa_result_500"</span>)</span>
+<span id="cb43-40"><a href="#cb43-40" aria-hidden="true" tabindex="-1"></a><span class="fu">load</span>(<span class="st">"psa_result_1000"</span>)</span>
+<span id="cb43-41"><a href="#cb43-41" aria-hidden="true" tabindex="-1"></a><span class="fu">load</span>(<span class="st">"psa_result_dr_0"</span>)</span>
+<span id="cb43-42"><a href="#cb43-42" aria-hidden="true" tabindex="-1"></a><span class="fu">load</span>(<span class="st">"psa_result_dr_3"</span>)</span>
+<span id="cb43-43"><a href="#cb43-43" aria-hidden="true" tabindex="-1"></a><span class="fu">load</span>(<span class="st">"psa_result_societal"</span>)</span>
+<span id="cb43-44"><a href="#cb43-44" aria-hidden="true" tabindex="-1"></a></span>
+<span id="cb43-45"><a href="#cb43-45" aria-hidden="true" tabindex="-1"></a>PSA_result_summary<span class="ot">&lt;-</span><span class="fu">bind_rows</span>(<span class="fu">Psa_summary</span>(psa_result_base,<span class="st">"psa_base"</span>), <span class="fu">Psa_summary</span>(psa_result_100,<span class="st">"psa_100"</span>), <span class="fu">Psa_summary</span>(psa_result_500, <span class="st">"psa_500"</span>),</span>
+<span id="cb43-46"><a href="#cb43-46" aria-hidden="true" tabindex="-1"></a>    <span class="fu">Psa_summary</span>(psa_result_1000,<span class="st">"psa_1000"</span>), <span class="fu">Psa_summary</span>(psa_result_dr_0, <span class="st">"discount 0"</span>), <span class="fu">Psa_summary</span>(psa_result_dr_3, <span class="st">"discount 3%"</span>),</span>
+<span id="cb43-47"><a href="#cb43-47" aria-hidden="true" tabindex="-1"></a>    <span class="fu">Psa_summary</span>(psa_result_societal,<span class="st">"psa_societal"</span>))</span></code><button title="Copy to Clipboard" class="code-copy-button"><i class="bi"></i></button></pre></div>
 <div class="cell-output cell-output-stdout">
 <pre><code>   Scenrio watch_cost ED_cost QALY_ED QAlY_watch Increment_cost
 1 psa_base   20572.64 21725.3 15.8843    15.8836      -1152.669
@@ -1513,7 +1481,7 @@ Adding another scale for x, which will replace the existing scale.</code></pre>
   Increment_utility    ICER     INMB
 1        -0.0007297 1887807 1304.562</code></pre>
 </div>
-<div class="sourceCode cell-code" id="cb46"><pre class="sourceCode r code-with-copy"><code class="sourceCode r"><span id="cb46-1"><a href="#cb46-1" aria-hidden="true" tabindex="-1"></a><span class="fu">print</span>(PSA_result_summary)</span></code><button title="Copy to Clipboard" class="code-copy-button"><i class="bi"></i></button></pre></div>
+<div class="sourceCode cell-code" id="cb45"><pre class="sourceCode r code-with-copy"><code class="sourceCode r"><span id="cb45-1"><a href="#cb45-1" aria-hidden="true" tabindex="-1"></a><span class="fu">print</span>(PSA_result_summary)</span></code><button title="Copy to Clipboard" class="code-copy-button"><i class="bi"></i></button></pre></div>
 <div class="cell-output cell-output-stdout">
 <pre><code>       Scenrio watch_cost    ED_cost QALY_ED QAlY_watch Increment_cost
 1     psa_base  20572.635  21725.304 15.8843    15.8836      -1152.669
